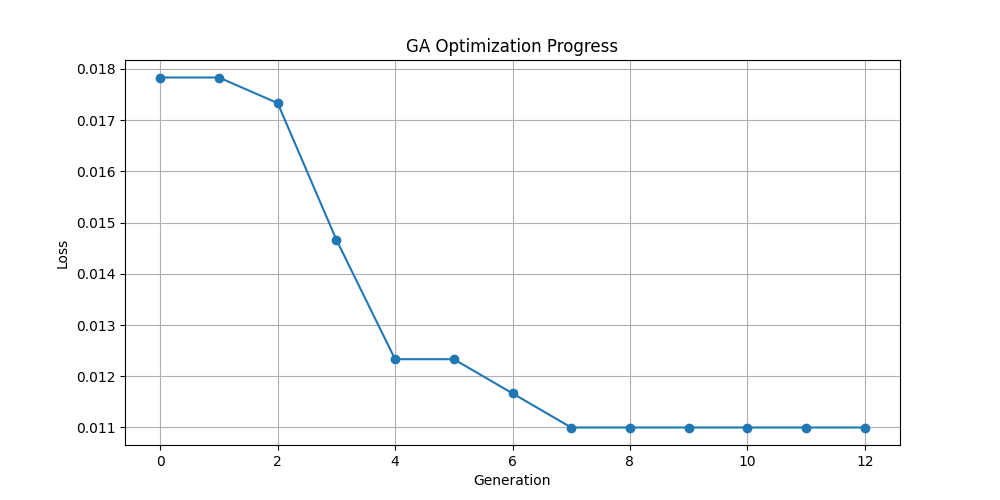
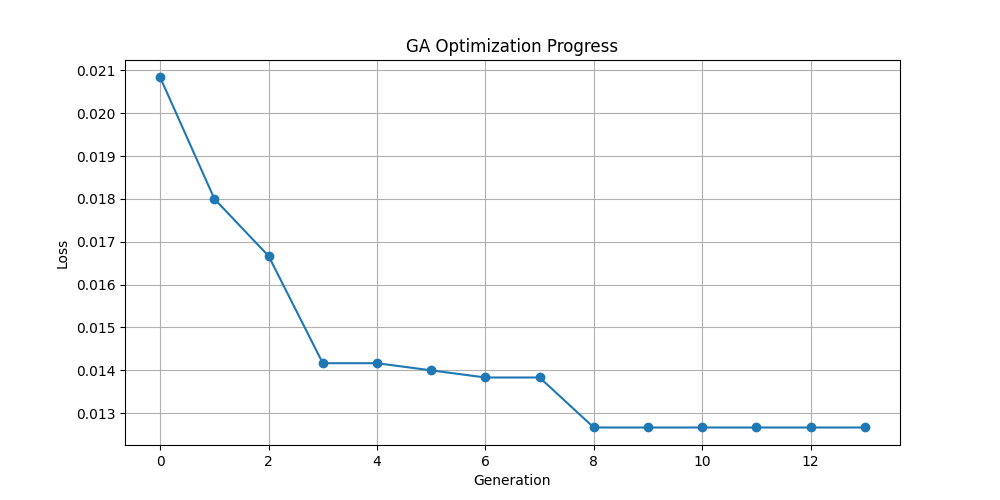
Changed final bath-size and epochs, added seed

diff --git a/final_test.py b/final_test.py
@@ -2,6 +2,7 @@ from src.data.data_loader import load_data
 from src.models.model_builder import build_model_from_vector
 from src.utils.saver import save_json
 from src.utils.config import TRAINING
+from src.utils.seed import set_seed
 import json
 import matplotlib.pyplot as plt
 import os
@@ -17,11 +18,14 @@ def final_evaluation():
     history = model.fit(
         X_train_full, y_train_cat,
         epochs=TRAINING["epochs_final"],
-        batch_size=TRAINING["batch_size"],
+        batch_size=TRAINING["batch_size_final"],
         verbose=1
     )
 
     test_loss, test_acc = model.evaluate(X_test, y_test_cat, verbose=0)
+
+    # Evaluation (like in document)
+    print(f"Model error rate: {100 - test_acc * 100:.2f}%")
 
     # Save trained model
     os.makedirs("results/models", exist_ok=True)
@@ -69,4 +73,5 @@ def final_evaluation():
 
 
 if __name__ == "__main__":
+    set_seed(TRAINING['random_seed'])
     final_evaluation()

diff --git a/main.py b/main.py
@@ -1,13 +1,16 @@
 from src.optimization.ga_evaluator import evaluate_solution
 from src.optimization.ga import genetic_algorithm
 from src.utils.config import GA_PARAMS
+from src.utils.config import TRAINING
 from src.utils.saver import save_json, plot_history
+from src.utils.seed import set_seed
 import os
 
 BEST_PATH = "results/metrics/best_params.json"
 PLOT_PATH = "results/figures/ga_progress.png"
 
 if __name__ == "__main__":
+    set_seed(TRAINING['random_seed'])
     best_vector, best_fitness, history = genetic_algorithm(
         objective_function=evaluate_solution,
         pop_size=GA_PARAMS["pop_size"],

diff --git a/src/utils/seed.py b/src/utils/seed.py
@@ -1,0 +1,13 @@
+# src/utils/seed.py
+import os
+import random
+import numpy as np
+import tensorflow as tf
+
+def set_seed(seed: int = 7):
+    os.environ['PYTHONHASHSEED'] = str(seed)
+    random.seed(seed)
+    np.random.seed(seed)
+    tf.random.set_seed(seed)
+    os.environ['TF_DETERMINISTIC_OPS'] = '1'
+    os.environ['TF_CUDNN_DETERMINISTIC'] = '1'

diff --git a/src/optimization/ga_evaluator.py b/src/optimization/ga_evaluator.py
@@ -19,7 +19,7 @@ def evaluate_solution(vector):
         history = model.fit(
             X_train, y_train_cat,
             epochs=TRAINING["epochs_ga"],
-            batch_size=TRAINING["batch_size"],
+            batch_size=TRAINING["batch_size_ga"],
             verbose=0,
             validation_data=(X_val, y_val_cat)
         )
